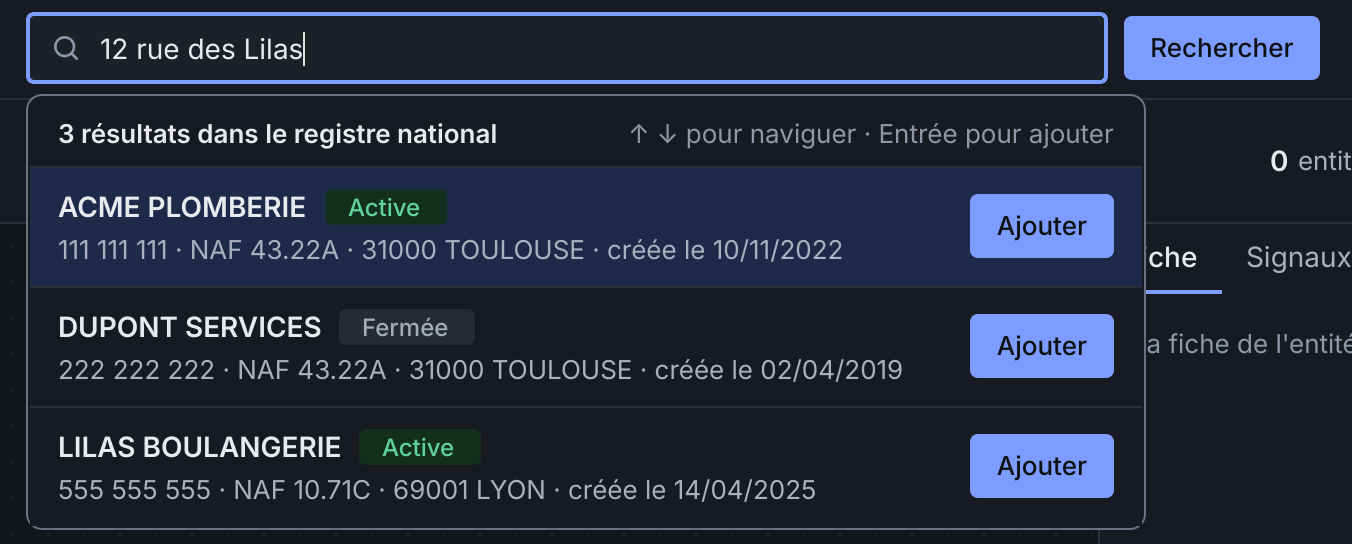
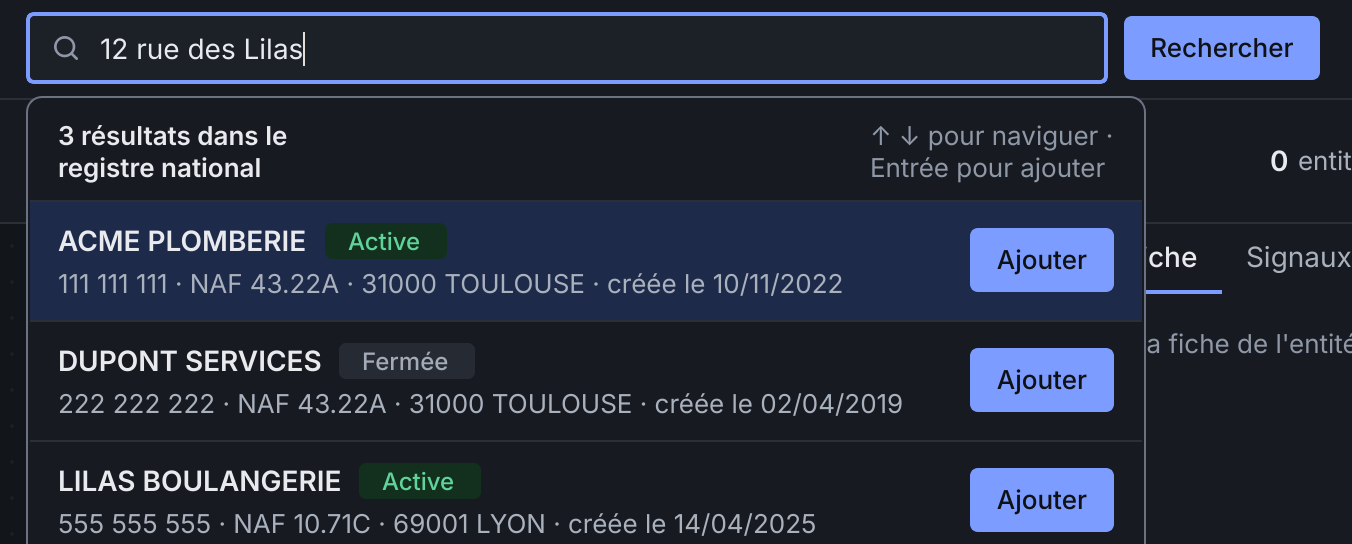
docs(81): Explain how to enlarge the text

Changed region(s): [[0.0, 0.2188, 0.8698, 1.0], [0.0311, 0.1562, 0.8388, 0.1875], [0.7145, 0.6875, 0.8388, 0.875]]

diff --git a/CHANGELOG.md b/CHANGELOG.md
@@ -6,9 +6,14 @@ All notable changes to Lacis are listed here, newest first. The format follows [
 
 ### Added
 
+- Lacis follows the font size of the system, and View › Taille du texte enlarges every text from 100 % to 200 %. At 200 %, on a 1280 × 800 screen, no text is cut and every control remains reachable: long lines wrap, and buttons that no longer fit side by side move to the next line.
 - The graph has a list view, for screen readers and the keyboard. The « Vue liste » button above the graph, or Ctrl+L, shows its entities grouped by kind, each with its links, and screen readers hear each entity with its kind and its number of links. Moving through the list selects the entity in the graph and opens its details, Enter on a link goes to the entity it leads to, and the list follows the filters of the graph.
 - After an expansion or a decision, screen readers hear what is new to examine, such as « À examiner : 2 nouveaux signaux d'alerte et 1 nouvel homonyme à vérifier ». The announcement is polite, and the changes found within a second are grouped into one.
 - Screen readers learn the role, state and value of the widgets that Lacis draws itself: entity chips are links to their entity and tell its kind, signal cards are groups with their explanation and score, the BODACC timeline is a list of notices, and the buttons that fold the « À examiner » column or the provenance of a link tell whether it is open.
+
+### Changed
+
+- The provenance button of a « Même personne » link reads « Provenance · Décision », shorter, so that it fits with a larger text. Its accessible name still says « Décision de l'enquêteur ».
 
 ## [0.2.0] - 2026-11-17
 
